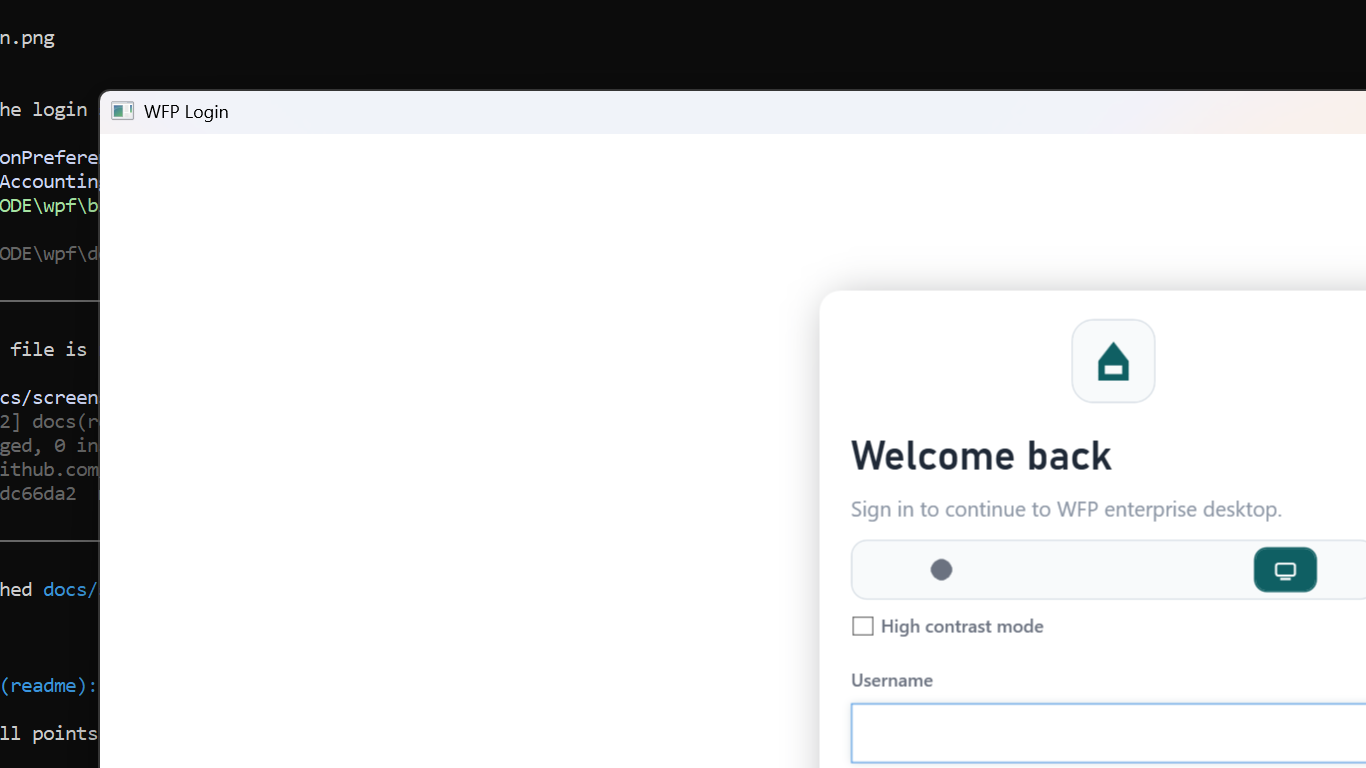
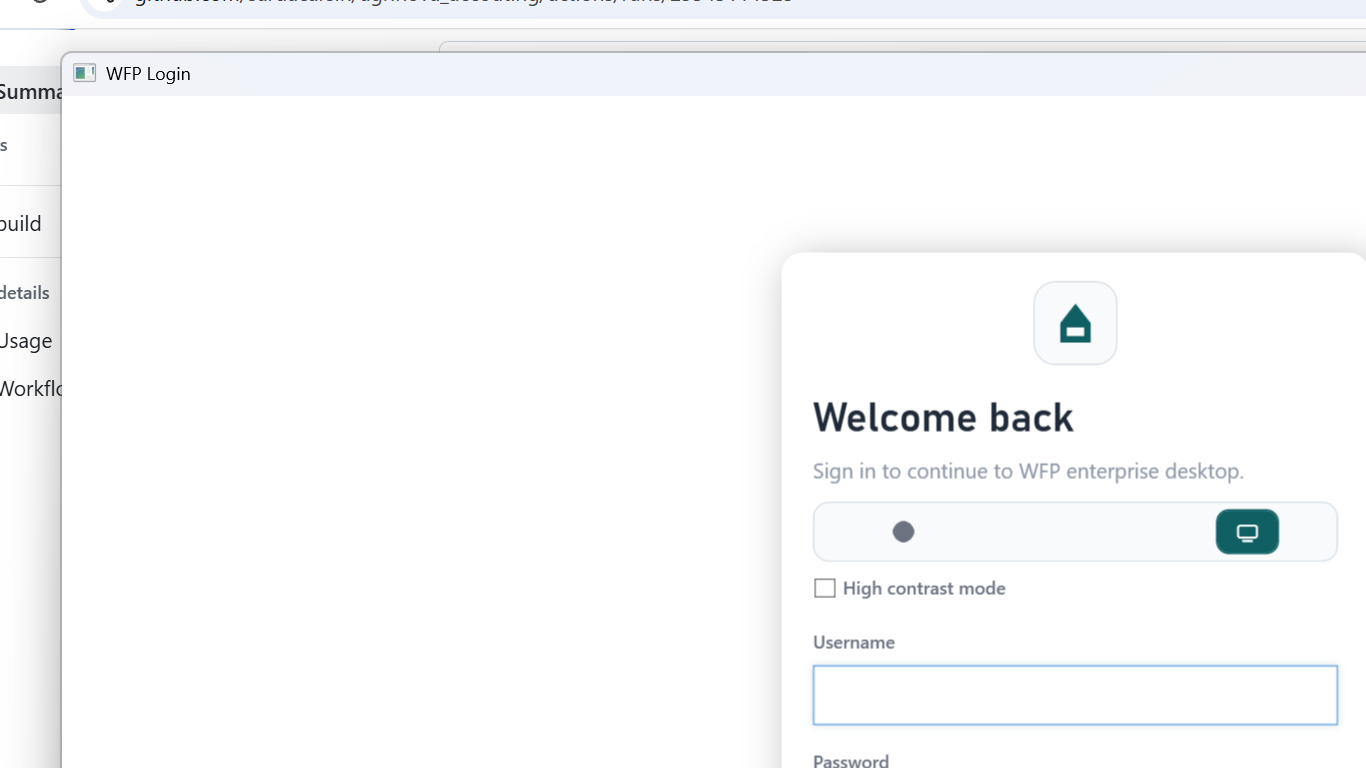
docs(readme): add app screenshots

diff --git a/README.md b/README.md
@@ -184,13 +184,15 @@ Period close currently includes:
 
 ![Login screen](docs/screenshots/login.png)
 
-Additional workspace screenshots can be added later for:
+### Access Selection
 
-- login
-- access-context selection
-- General Ledger workspace
-- reports workspace
-- inventory workspace
+![Access selection](docs/screenshots/access-selection.png)
+
+### Main Shell
+
+![Main shell](docs/screenshots/main-window.png)
+
+Additional workspace screenshots can be added later for reports, journals, and inventory details.
 
 ## Integration Tests
 
